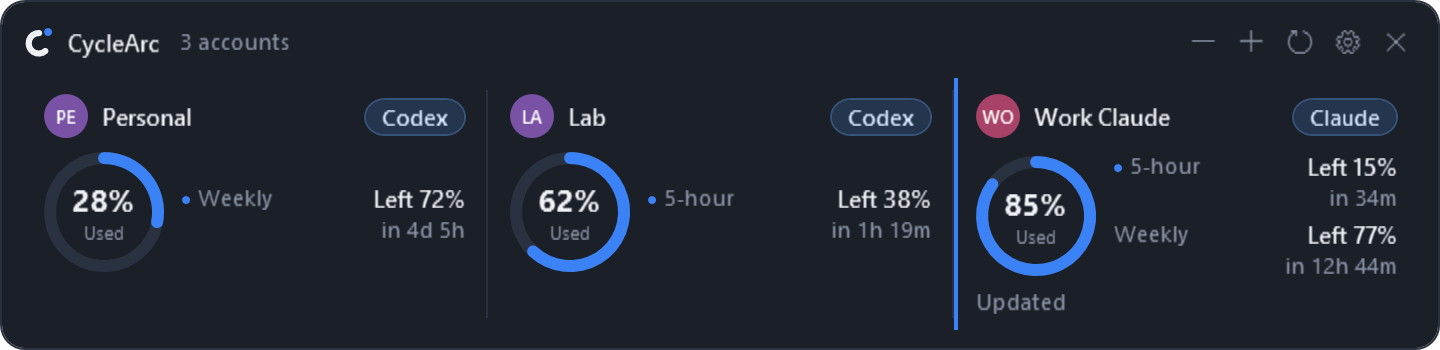
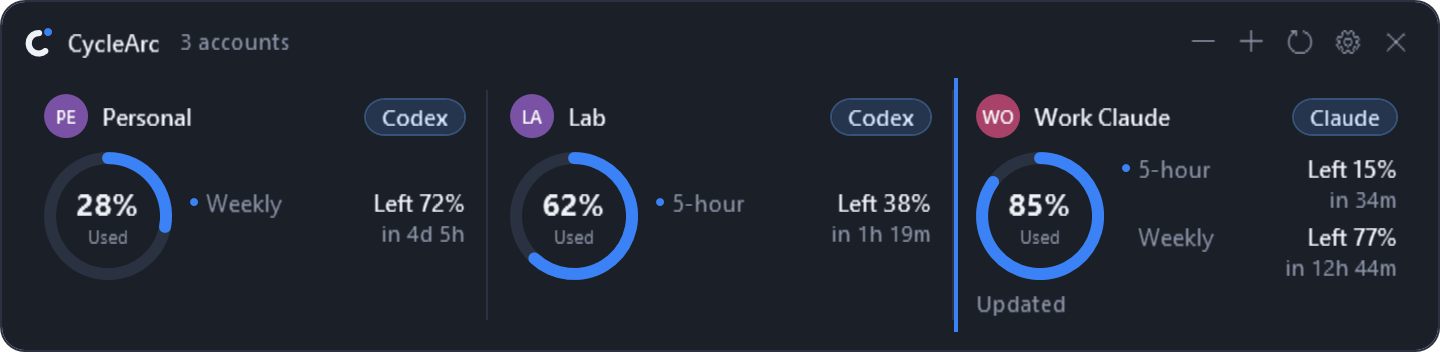
fix: align widget quota rows and usage rings

diff --git a/tests/CycleArc.UiSmoke/WidgetMultiAccountChecks.cs b/tests/CycleArc.UiSmoke/WidgetMultiAccountChecks.cs
@@ -2,6 +2,7 @@ using System.IO;
 using System.Reflection;
 using System.Windows;
 using System.Windows.Controls;
+using System.Windows.Media;
 using CycleArc.Codex;
 using CycleArc.Models;
 using CycleArc.Providers.Claude;
@@ -88,6 +89,7 @@ internal static class WidgetMultiAccountChecks
 
     private static void CheckReadable(FloatingWidget widget, string name)
     {
+        CheckAlignment(widget, name);
         var content = (FrameworkElement)widget.Content;
         var header = (FrameworkElement)widget.FindName("WidgetHeader");
         Check(AccountUiChecks.Descendants<TextBlock>(content)
@@ -113,6 +115,48 @@ internal static class WidgetMultiAccountChecks
             Check(module.TranslatePoint(new Point(), content).Y + 0.01
                 >= header.TranslatePoint(new Point(0, header.ActualHeight), content).Y,
                 $"{name}: a module overlaps the header.");
+        }
+    }
+
+    internal static void CheckAlignment(FloatingWidget widget, string name)
+    {
+        var content = (FrameworkElement)widget.Content;
+        var tolerance = Math.Max(1, widget.ZoomScale);
+        var rowCenters = new Dictionary<int, double>();
+        Rect Bounds(FrameworkElement element) => element.TransformToAncestor(content)
+            .TransformBounds(new Rect(element.RenderSize));
+
+        for (var index = 0; index < widget.Modules.Count; index++)
+        {
+            var module = widget.Modules[index];
+            var ring = (FrameworkElement)VisualTreeHelper.GetParent(VisualTreeHelper.GetParent(module.RingValueText));
+            var ringBounds = Bounds(ring);
+            var ringCenter = ringBounds.Top + ringBounds.Height / 2;
+            var row = index / widget.LastLayout!.Columns;
+            if (rowCenters.TryGetValue(row, out var rowCenter))
+                Check(Math.Abs(ringCenter - rowCenter) <= tolerance,
+                    $"{name}: rings in the same account row are vertically misaligned.");
+            else rowCenters.Add(row, ringCenter);
+
+            if (module.Periods.Count == 0) continue;
+            var periodBounds = Rect.Empty;
+            var labelStart = Bounds(module.Periods[0].PeriodText).Left;
+            foreach (var line in module.Periods)
+            {
+                periodBounds.Union(Bounds(line));
+                Check(Math.Abs(Bounds(line.PeriodText).Left - labelStart) <= tolerance,
+                    $"{name}: the representative marker shifts a period label out of its column.");
+                var labelBaseline = line.PeriodText.TranslatePoint(new Point(0, line.PeriodText.BaselineOffset), content).Y;
+                var remainingBaseline = line.RemainingText.TranslatePoint(new Point(0, line.RemainingText.BaselineOffset), content).Y;
+                Check(Math.Abs(labelBaseline - remainingBaseline) <= tolerance,
+                    $"{name}: a period label and remaining value have different baselines.");
+                Check(Math.Abs(Bounds(line.RemainingText).Right - Bounds(line.ResetText).Right) <= tolerance,
+                    $"{name}: remaining and reset values have different right edges.");
+            }
+            Check(Math.Abs(periodBounds.Top + periodBounds.Height / 2 - ringCenter) <= tolerance,
+                $"{name}: the period block is not centered beside its ring.");
+            Check(periodBounds.Top >= ringBounds.Top - tolerance && periodBounds.Bottom <= ringBounds.Bottom + tolerance,
+                $"{name}: period lines extend above or below their ring.");
         }
     }
 
@@ -163,14 +207,18 @@ internal static class WidgetMultiAccountChecks
 
     private static CodexAccountView[] States()
     {
-        var noReset = Both(55, 30) with
+        var noReset = Both(0, 23) with
         {
-            Windows = [new("five", 55, CodexWindowClassifier.FiveHourMinutes, null, CodexWindowKind.FiveHour)]
+            Windows =
+            [
+                new("five", 0, CodexWindowClassifier.FiveHourMinutes, null, CodexWindowKind.FiveHour),
+                new("week", 23, CodexWindowClassifier.WeeklyMinutes, Now.AddDays(5).AddHours(21), CodexWindowKind.Weekly)
+            ]
         };
         return
         [
             Codex("state-ok", UiText.T("a-very-long-synthetic-widget-nickname", "아주 긴 합성 위젯 별명입니다"), Both(97, 44)),
-            Codex("state-noreset", UiText.T("Lab", "실험용"), noReset),
+            Claude("state-noreset", UiText.T("Lab", "실험용"), noReset),
             Claude("state-stale", UiText.T("Work", "작업용"), Both(62, 18) with { Status = CodexQuotaStatus.Stale }),
             Claude("state-auth", UiText.T("Personal Claude", "개인 Claude"),
                 Both(85, 23) with { TechnicalDetail = "claude-live-auth-required" })

diff --git a/src/CycleArc/UI/WidgetAccountModuleView.cs b/src/CycleArc/UI/WidgetAccountModuleView.cs
@@ -12,7 +12,8 @@ namespace CycleArc.UI;
 /// </summary>
 public sealed class WidgetAccountModuleView : Border
 {
-    internal const double RingDiameter = 60;
+    // Two 30-DIP period lines and their 4-DIP gap share the ring's vertical extent.
+    internal const double RingDiameter = 64;
     private const double RingStroke = 6;
     private const double RingRadius = (RingDiameter - RingStroke) / 2;
     private const double RingCenter = RingDiameter / 2;
@@ -130,6 +131,10 @@ public sealed class WidgetAccountModuleView : Border
 
         ToolTip = model.Tooltip;
         System.Windows.Automation.AutomationProperties.SetName(this, AutomationText(model));
+
+        // BindAccounts measures immediately, before WPF propagates a status-line size change.
+        ((FrameworkElement)Child).InvalidateMeasure();
+        InvalidateMeasure();
     }
 
     private static string AutomationText(WidgetAccountModel model)
@@ -179,7 +184,7 @@ public sealed class WidgetAccountModuleView : Border
             var rebuilt = new List<WidgetPeriodLineView>(model.Periods.Count);
             foreach (var _ in model.Periods)
             {
-                var line = new WidgetPeriodLineView { Margin = new Thickness(0, rebuilt.Count == 0 ? 0 : 5, 0, 0) };
+                var line = new WidgetPeriodLineView { Margin = new Thickness(0, rebuilt.Count == 0 ? 0 : 4, 0, 0) };
                 _periodPanel.Children.Add(line);
                 rebuilt.Add(line);
             }
@@ -192,21 +197,26 @@ public sealed class WidgetAccountModuleView : Border
 /// <summary>One period inside a module: its name, what is left, and when it resets.</summary>
 public sealed class WidgetPeriodLineView : StackPanel
 {
-    public TextBlock PeriodText { get; } = new() { FontSize = 10.5, TextTrimming = TextTrimming.CharacterEllipsis };
+    public TextBlock PeriodText { get; } = new()
+    {
+        FontSize = 12, LineHeight = 16, LineStackingStrategy = LineStackingStrategy.BlockLineHeight,
+        TextTrimming = TextTrimming.CharacterEllipsis
+    };
     public TextBlock RemainingText { get; } = new()
     {
-        FontSize = 12, FontWeight = FontWeights.SemiBold, TextAlignment = TextAlignment.Right,
+        FontSize = 12, LineHeight = 16, LineStackingStrategy = LineStackingStrategy.BlockLineHeight,
+        FontWeight = FontWeights.SemiBold, TextAlignment = TextAlignment.Right,
         HorizontalAlignment = HorizontalAlignment.Right
     };
     public TextBlock ResetText { get; } = new()
     {
-        FontSize = 10.5, TextAlignment = TextAlignment.Right, HorizontalAlignment = HorizontalAlignment.Right,
-        Margin = new Thickness(0, 1, 0, 0)
+        FontSize = 10.5, LineHeight = 14, LineStackingStrategy = LineStackingStrategy.BlockLineHeight,
+        TextAlignment = TextAlignment.Right, HorizontalAlignment = HorizontalAlignment.Right
     };
     private readonly Ellipse _representative = new()
     {
         Width = 4, Height = 4, Margin = new Thickness(0, 0, 4, 0), VerticalAlignment = VerticalAlignment.Center,
-        Visibility = Visibility.Collapsed
+        Visibility = Visibility.Hidden
     };
 
     public WidgetPeriodLineView()
@@ -238,7 +248,8 @@ public sealed class WidgetPeriodLineView : StackPanel
         ResetText.Text = line.ResetText;
         // The countdown stays readable; the exact local reset time is one hover away.
         ResetText.ToolTip = line.ResetTooltip is null ? null : UiText.WidgetReset + " " + line.ResetTooltip;
-        _representative.Visibility = line.IsRepresentative ? Visibility.Visible : Visibility.Collapsed;
+        // Reserve the marker gutter so both period names start in the same column.
+        _representative.Visibility = line.IsRepresentative ? Visibility.Visible : Visibility.Hidden;
         _representative.ToolTip = line.IsRepresentative
             ? UiText.T("Shown in the ring", "링에 표시되는 기간") : null;
     }

diff --git a/tests/CycleArc.UiSmoke/WidgetDpiChecks.cs b/tests/CycleArc.UiSmoke/WidgetDpiChecks.cs
@@ -47,7 +47,9 @@ internal static class WidgetDpiChecks
                 // Change the visual's layout DPI, not just the output bitmap resolution.
                 var content = (FrameworkElement)widget.Content;
                 Bind(widget, accounts, snapshot.Status);
-                VisualTreeHelper.SetRootDpi(content, new DpiScale(scale, scale));
+                // Include the window ancestor: an immediate module remeasure must not
+                // inherit the host DPI above an artificially scaled content subtree.
+                VisualTreeHelper.SetRootDpi(widget, new DpiScale(scale, scale));
                 foreach (var status in new[] { CodexQuotaStatus.Available, CodexQuotaStatus.Stale,
                              CodexQuotaStatus.Available })
                 {
@@ -118,6 +120,7 @@ internal static class WidgetDpiChecks
     // nothing is clipped, and the header stays above the grid.
     private static void AssertModuleLayout(FloatingWidget widget, string context)
     {
+        WidgetMultiAccountChecks.CheckAlignment(widget, context);
         var content = (FrameworkElement)widget.Content;
         var scale = VisualTreeHelper.GetDpi(content).DpiScaleY;
         var header = (FrameworkElement)widget.FindName("WidgetHeader");
@@ -153,7 +156,8 @@ internal static class WidgetDpiChecks
                     throw new InvalidOperationException($"A quota or reset value is clipped ({context}).");
             }
             if (Math.Abs(VisualTreeHelper.GetDpi(name).DpiScaleY - scale) > 0.001)
-                throw new InvalidOperationException("Widget text did not inherit the tested DPI.");
+                throw new InvalidOperationException($"Widget text did not inherit the tested DPI ({context}): "
+                    + $"{VisualTreeHelper.GetDpi(name).DpiScaleY} instead of {scale}.");
         }
         // The wrapped grid must never exceed what the widget said it would take, beyond
         // 1 DIP hairlines snapping to whole device pixels (150% DPI: 720 → 721⅓).

diff --git a/tests/CycleArc.UiSmoke/WidgetLayoutChecks.cs b/tests/CycleArc.UiSmoke/WidgetLayoutChecks.cs
@@ -587,7 +587,7 @@ internal static class WidgetLayoutChecks
             CheckAccountsFullyVisible(window, "bind-two-periods");
             var bothLayout = window.LastLayout!.Height;
             var bothNative = NativeDipSize(window);
-            // Two compact period lines sit beside the 60 DIP ring, so height may stay.
+            // Two compact period lines fit beside the ring, so height may stay.
             // The HWND must still match the arranged layout rather than a previous bind.
             Check(Math.Abs(bothNative.Height - bothLayout) <= 4,
                 $"Two-period HWND {bothNative.Height} does not match layout {bothLayout}.");

diff --git a/tests/CycleArc.UiSmoke/WidgetZoomChecks.cs b/tests/CycleArc.UiSmoke/WidgetZoomChecks.cs
@@ -299,6 +299,8 @@ internal static class WidgetZoomChecks
                 widget.BindAccounts(accounts, accounts[0].Profile.Id, UsagePeriodPreference.Auto, Wide, Now);
                 Layout(widget);
 
+                WidgetMultiAccountChecks.CheckAlignment(widget, $"{suffix}: {where}");
+
                 var header = (FrameworkElement)widget.FindName("WidgetHeader");
                 var boxes = order.Select(name =>
                 {

diff --git a/docs/VALIDATION.md b/docs/VALIDATION.md
@@ -1725,3 +1725,25 @@ remaining-quota count. Subsequent 13:37–13:38 retries failed at page preparati
 - Not run: any live account request, and any installed-app update or removal. `package-verify`
   exercises an isolated portable root, which is not an installed-app update. The multi-account
   and zoomed layouts use injected `ScreenRect` work areas and synthetic accounts throughout.
+
+## Widget period alignment, 2026-09-19
+
+- Five-hour and weekly labels reserve the same marker gutter and share the remaining value's
+  font size and baseline. Each period uses a 16-DIP primary line and a 14-DIP reset line;
+  the two periods and their 4-DIP gap match the 64-DIP ring. Single-period and two-period
+  accounts therefore keep their rings aligned across the row.
+- An immediate remeasure after binding includes a newly visible status line, before WPF's
+  deferred parent invalidation. The existing shown-window status/rebind regression caught
+  this as a clipped module and now passes without changing its bounds assertions.
+- `WidgetMultiAccountChecks.CheckAlignment` compares label starts, text baselines, right
+  edges, period-block/ring centers and rings within each account row. It also runs in the
+  zoom and DPI suites. The missing-reset fixture reproduces 100% left for five hours and
+  77% left for the week using an invented Claude account.
+- The DPI fixture applies its scale at the window root so a synchronous module remeasure
+  inherits the simulated DPI throughout the visual tree. Text-DPI equality remains asserted.
+- Focused checks passed locally: 24 multi-account renders, 151 layout checks, 531 zoom checks,
+  and 180 DPI/layout renders plus native windows on three monitors. Inspected EN/KO, Dark/Light,
+  80/150% widget sizes and 125% DPI; updated only the affected `docs/images/widget.png` preview.
+- Final local gate: `dev-run.ps1 -NoLaunch` passed in 4m20s, including 1,574 unit tests,
+  full UiSmoke, single-file publish and package/rollback component checks. No live account
+  request or installed-app replacement was performed.

diff --git a/docs/images/README.md b/docs/images/README.md
@@ -27,6 +27,8 @@ Account-management previews scroll to the bottom so all three sets of actions ar
 The widget has its own fixture in `DocumentationScreenshots.Export`: Personal (Codex, 28%
 weekly), Lab (Codex, 62% five-hour), and selected Work Claude (85% five-hour / 23% weekly).
 Its header shows independent size controls, shared refresh, Settings and Close widget.
+Period labels share a baseline with the remaining values and a fixed marker gutter;
+the two-period block and the rings across accounts share the same vertical alignment.
 The settings preview uses the production window's declared size so the General tab is fully visible.
 
 The Claude previews use those same profiles with Research connected and selected, so all three
